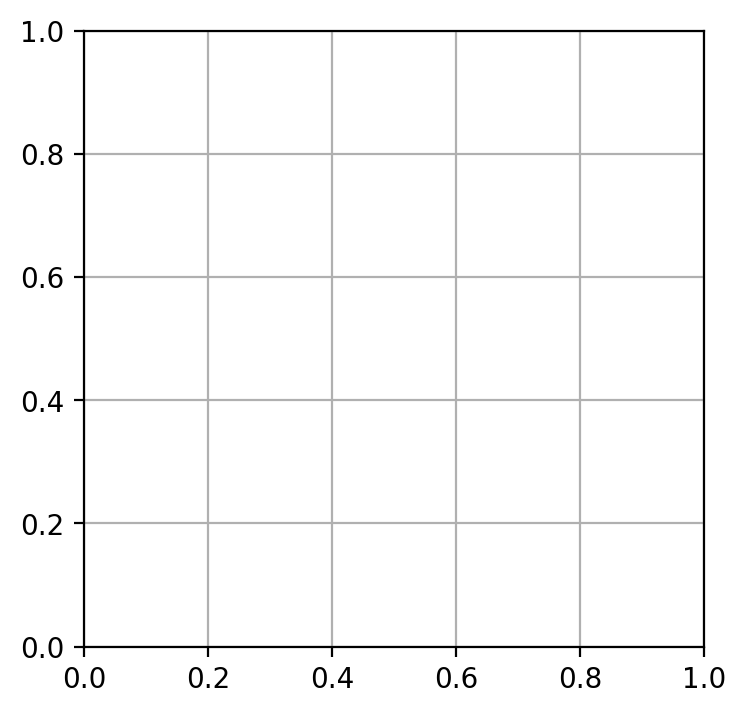
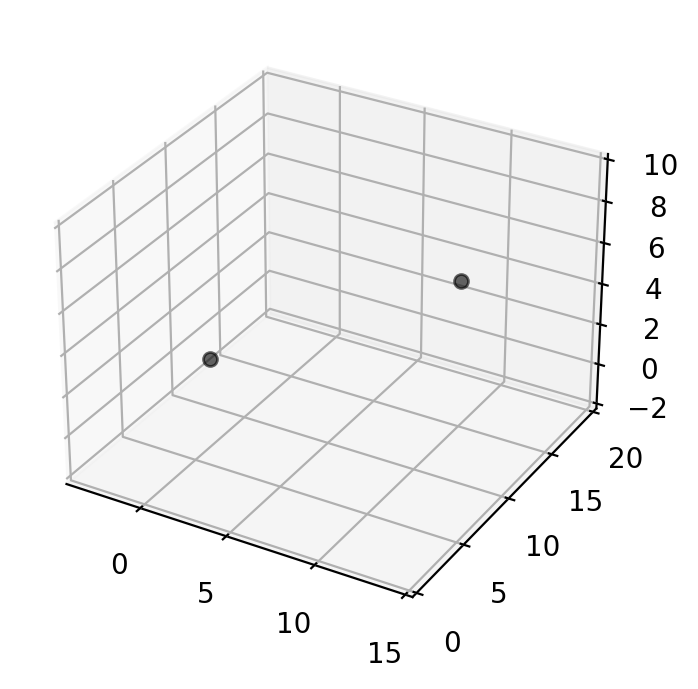
Completed Point Plotting

Changed region(s): [[0.0301, 0.0305, 0.9928, 0.9753], [0.8123, 0.701, 0.8725, 0.762], [0.1504, 0.7925, 0.1805, 0.8534]]

diff --git a/json3dplot/main.py b/json3dplot/main.py
@@ -2,30 +2,73 @@ import inspect
 import json
 import os
 import sys
+from sympy import Symbol
 PACKAGE_PARENT = '..'
 SCRIPT_DIR = os.path.realpath(os.path.dirname(inspect.getfile(inspect.currentframe())))
 sys.path.append(os.path.normpath(os.path.join(SCRIPT_DIR, PACKAGE_PARENT)))
 from dataplotting.simple_data_plotting_lib import Plot3D
 
+
 def main():
+    # reading input json file
     with open('input.json') as f:
         to_plot = json.load(f)
 
-    space = Plot3D(4, 4)
+    # Declaring symbolic variables
+    x = Symbol('x')
+    y = Symbol('y')
+    z = Symbol('z')
 
-    print(to_plot)
+    # min and max for each coordinate
+    x_lim = {"min": 0, "max": 0}
+    y_lim = {"min": 0, "max": 0}
+    z_lim = {"min": 0, "max": 0}
+    # extra padding for min and max axes
+    extra_padding = 5
+    # array of points to plot
+    points = []
+    # array of planes to plot
+    planes = []
+
+    # reading the file and saving data into arrays
     for item in to_plot:
-        print(item)
         if item["type"] == "point":
-            space.add3Dpoint(item["coordinates"]["x"], item["coordinates"]["y"], item["coordinates"]["z"])
-            pass
+            # adding point to points array
+            points.append({"x": item["coordinates"]["x"],
+                           "y": item["coordinates"]["y"],
+                           "z": item["coordinates"]["z"]})
+
+            # calculating min and max for all axes (with the extra_padding)
+            x_lim["min"] = min(x_lim["min"], item["coordinates"]["x"] - extra_padding)
+            x_lim["max"] = max(x_lim["max"], item["coordinates"]["x"] + extra_padding)
+            y_lim["min"] = min(y_lim["min"], item["coordinates"]["y"] - extra_padding)
+            y_lim["max"] = max(y_lim["max"], item["coordinates"]["y"] + extra_padding)
+            z_lim["min"] = min(z_lim["min"], item["coordinates"]["z"] - extra_padding)
+            z_lim["max"] = max(z_lim["max"], item["coordinates"]["z"] + extra_padding)
         elif item["type"] == "plane":
-            space.add3Dplane()
+            # function coefficients
+            a = item["coefficients"]["a"]
+            b = item["coefficients"]["b"]
+            c = item["coefficients"]["c"]
+            d = item["coefficients"]["d"]
+            # declaring plane function
+            f = lambda x, y, z: a*x + b*y + c*z + d
+            # adding plane function to planes
+            planes.append(f)
             pass
         else:
             print("The entered json file was wrongly written!")
             exit(1)
 
+    # creating a 3D space where we will plot points and planes
+    space = Plot3D(4, 4, x_lim, y_lim, z_lim)
+    # plotting points
+    for point in points:
+        space.add3Dpoint(point["x"], point["y"], point["z"])
+    # plotting planes
+    for plane in planes:
+        space.add3Dplane()
+    # saving the 3D space to file
     space.save_to_file("output", "png")
 
 

diff --git a/dataplotting/simple_data_plotting_lib.py b/dataplotting/simple_data_plotting_lib.py
@@ -100,18 +100,21 @@ class OnlyColumnsTable:
 
 # plotting points and planes in a 3D space
 class Plot3D:
-    def __init__(self, width, height):
-        self.fig, self.ax = plt.subplots(figsize=(width, height))   # graph subplot (space where we will be working)
+    def __init__(self, width, height, x_lim, y_lim, z_lim):
+        self.fig = plt.figure(figsize=(width, height))
+        self.ax = self.fig.add_subplot(111, projection="3d")   # graph subplot (space where we will be working)
 
-        self.ax.set_xlim(left=0)            # making the x axis start from x=0
-        self.ax.set_ylim(bottom=0)          # making the y axis start from y=0
-        # self.ax.set_zlim(min_value=0)       # making the z axis start from z=0
+        self.ax.set_xlim(x_lim["min"], x_lim["max"])            # making the x axis start from x=0
+        self.ax.set_ylim(y_lim["min"], y_lim["max"])          # making the y axis start from y=0
+        self.ax.set_zlim(z_lim["min"], z_lim["max"])       # making the z axis start from z=0
 
         self.ax.grid()  # enables the grid to allow better viewing of values in the graph
 
+    # plotting a point in the 3D space
     def add3Dpoint(self, x, y, z):
-        print(f"adding 3D point at coords({x}, {y}, {z})...")
+        self.ax.plot([x], [y], [z], markerfacecolor='k', markeredgecolor='k', marker='o', markersize=5, alpha=0.6)
 
+    # plotting a plane in the 3D space
     def add3Dplane(self):
         print("adding 3D plane...")
 
